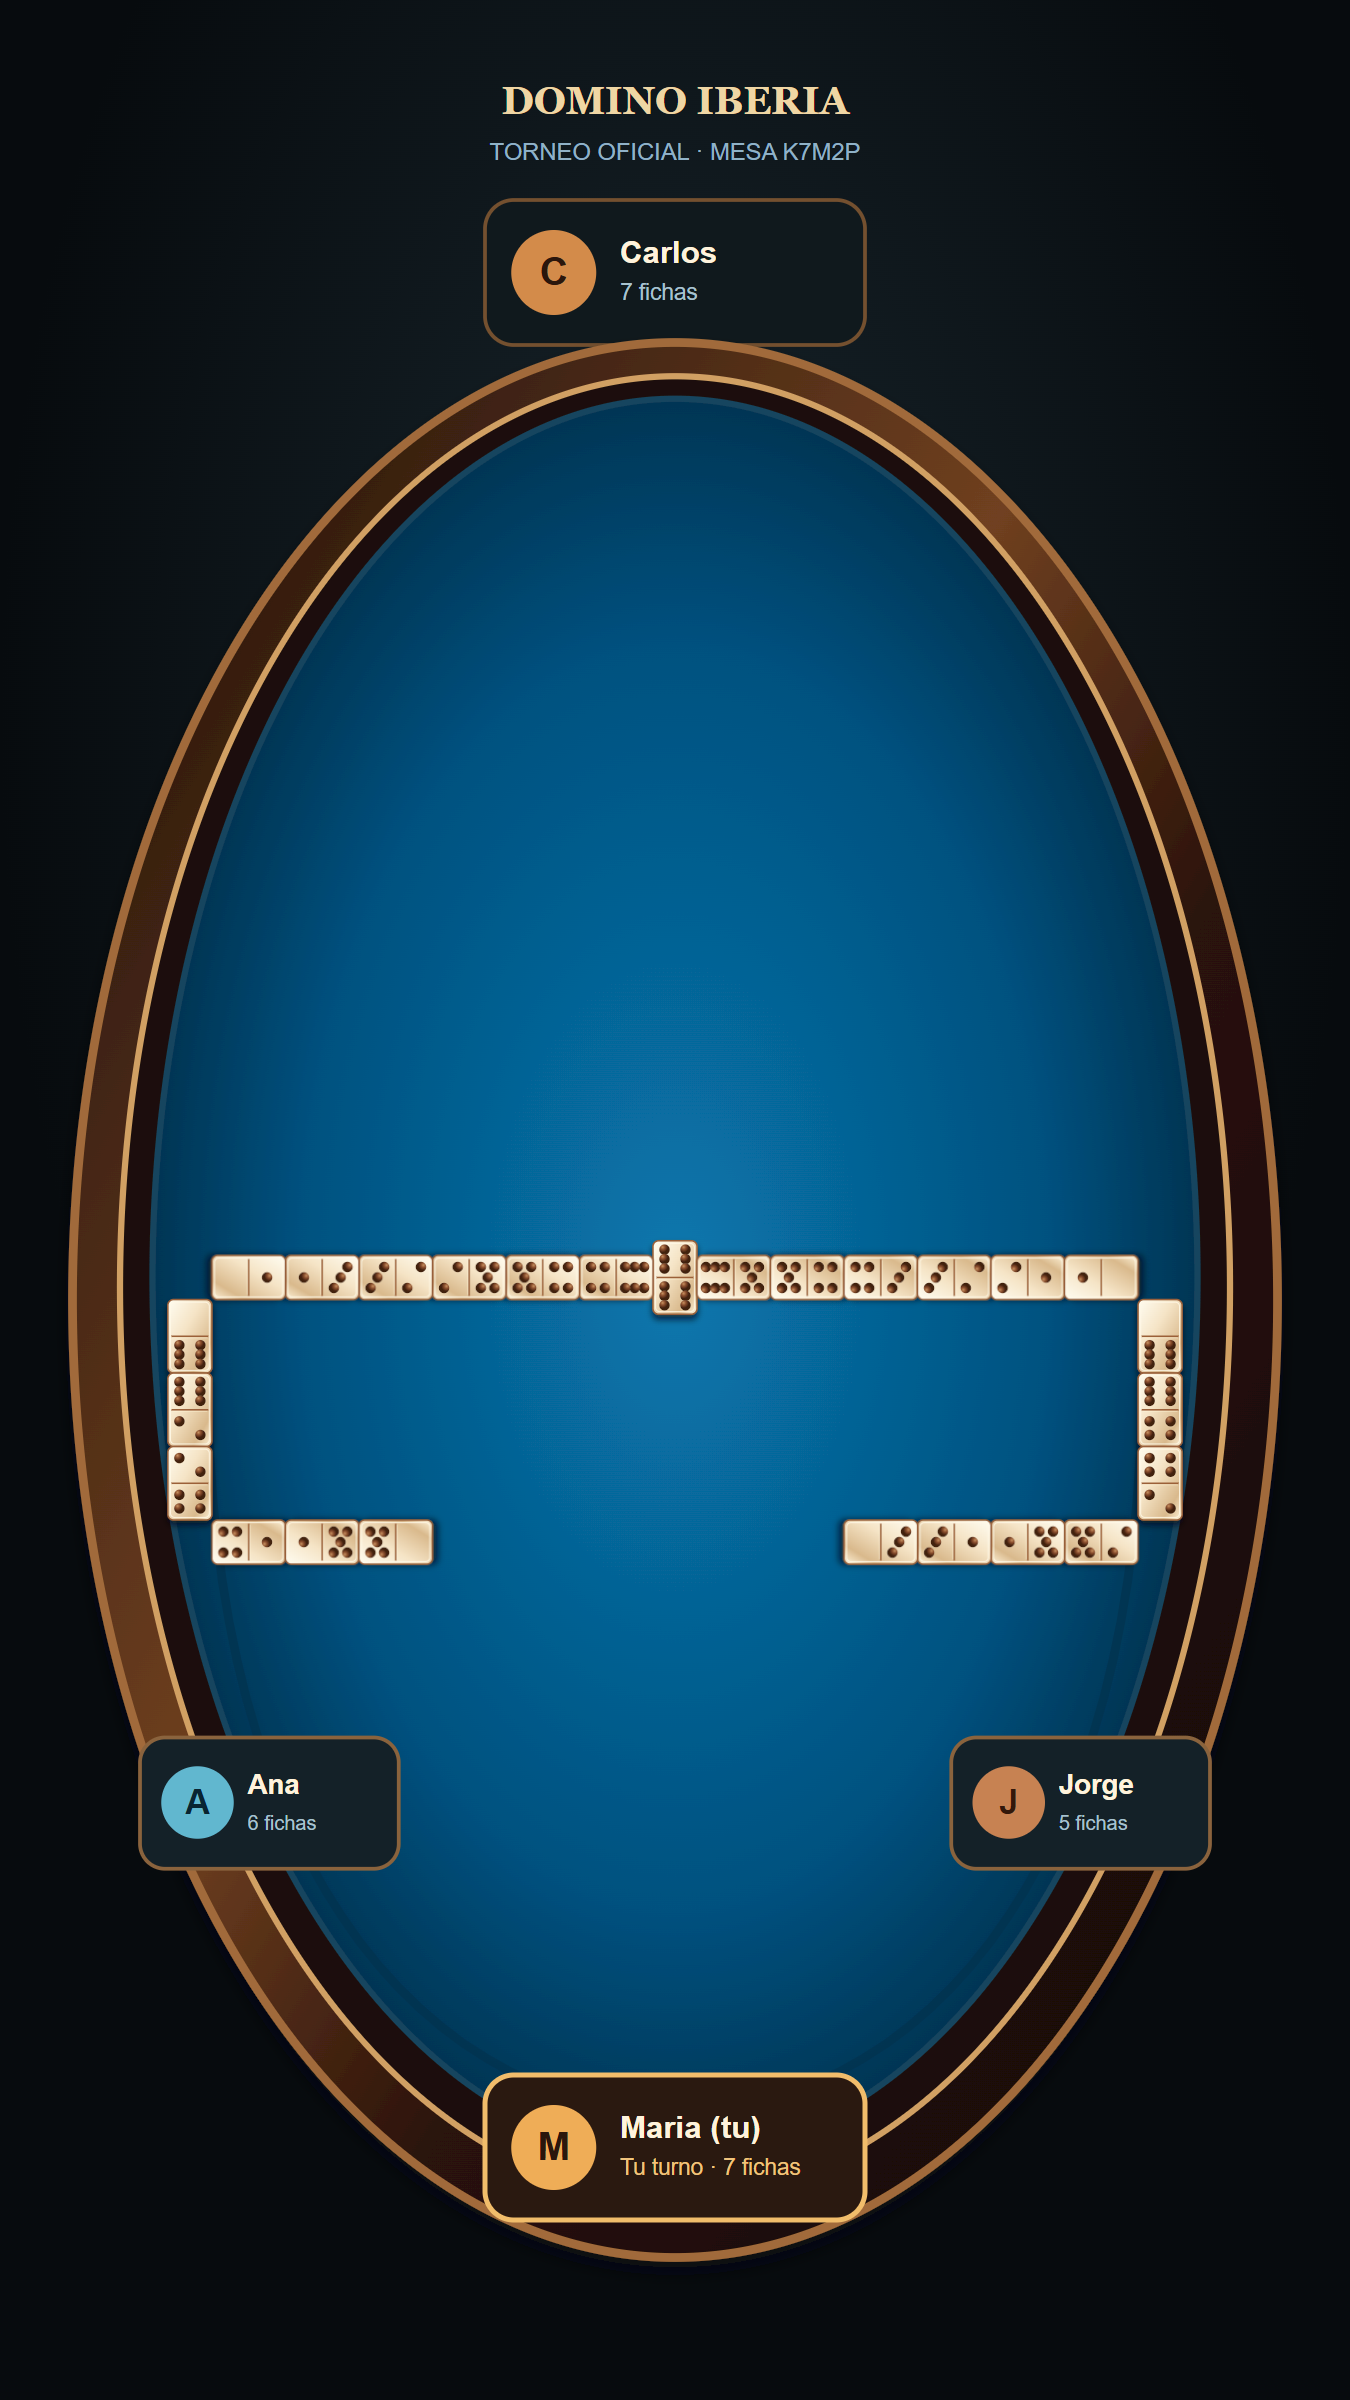
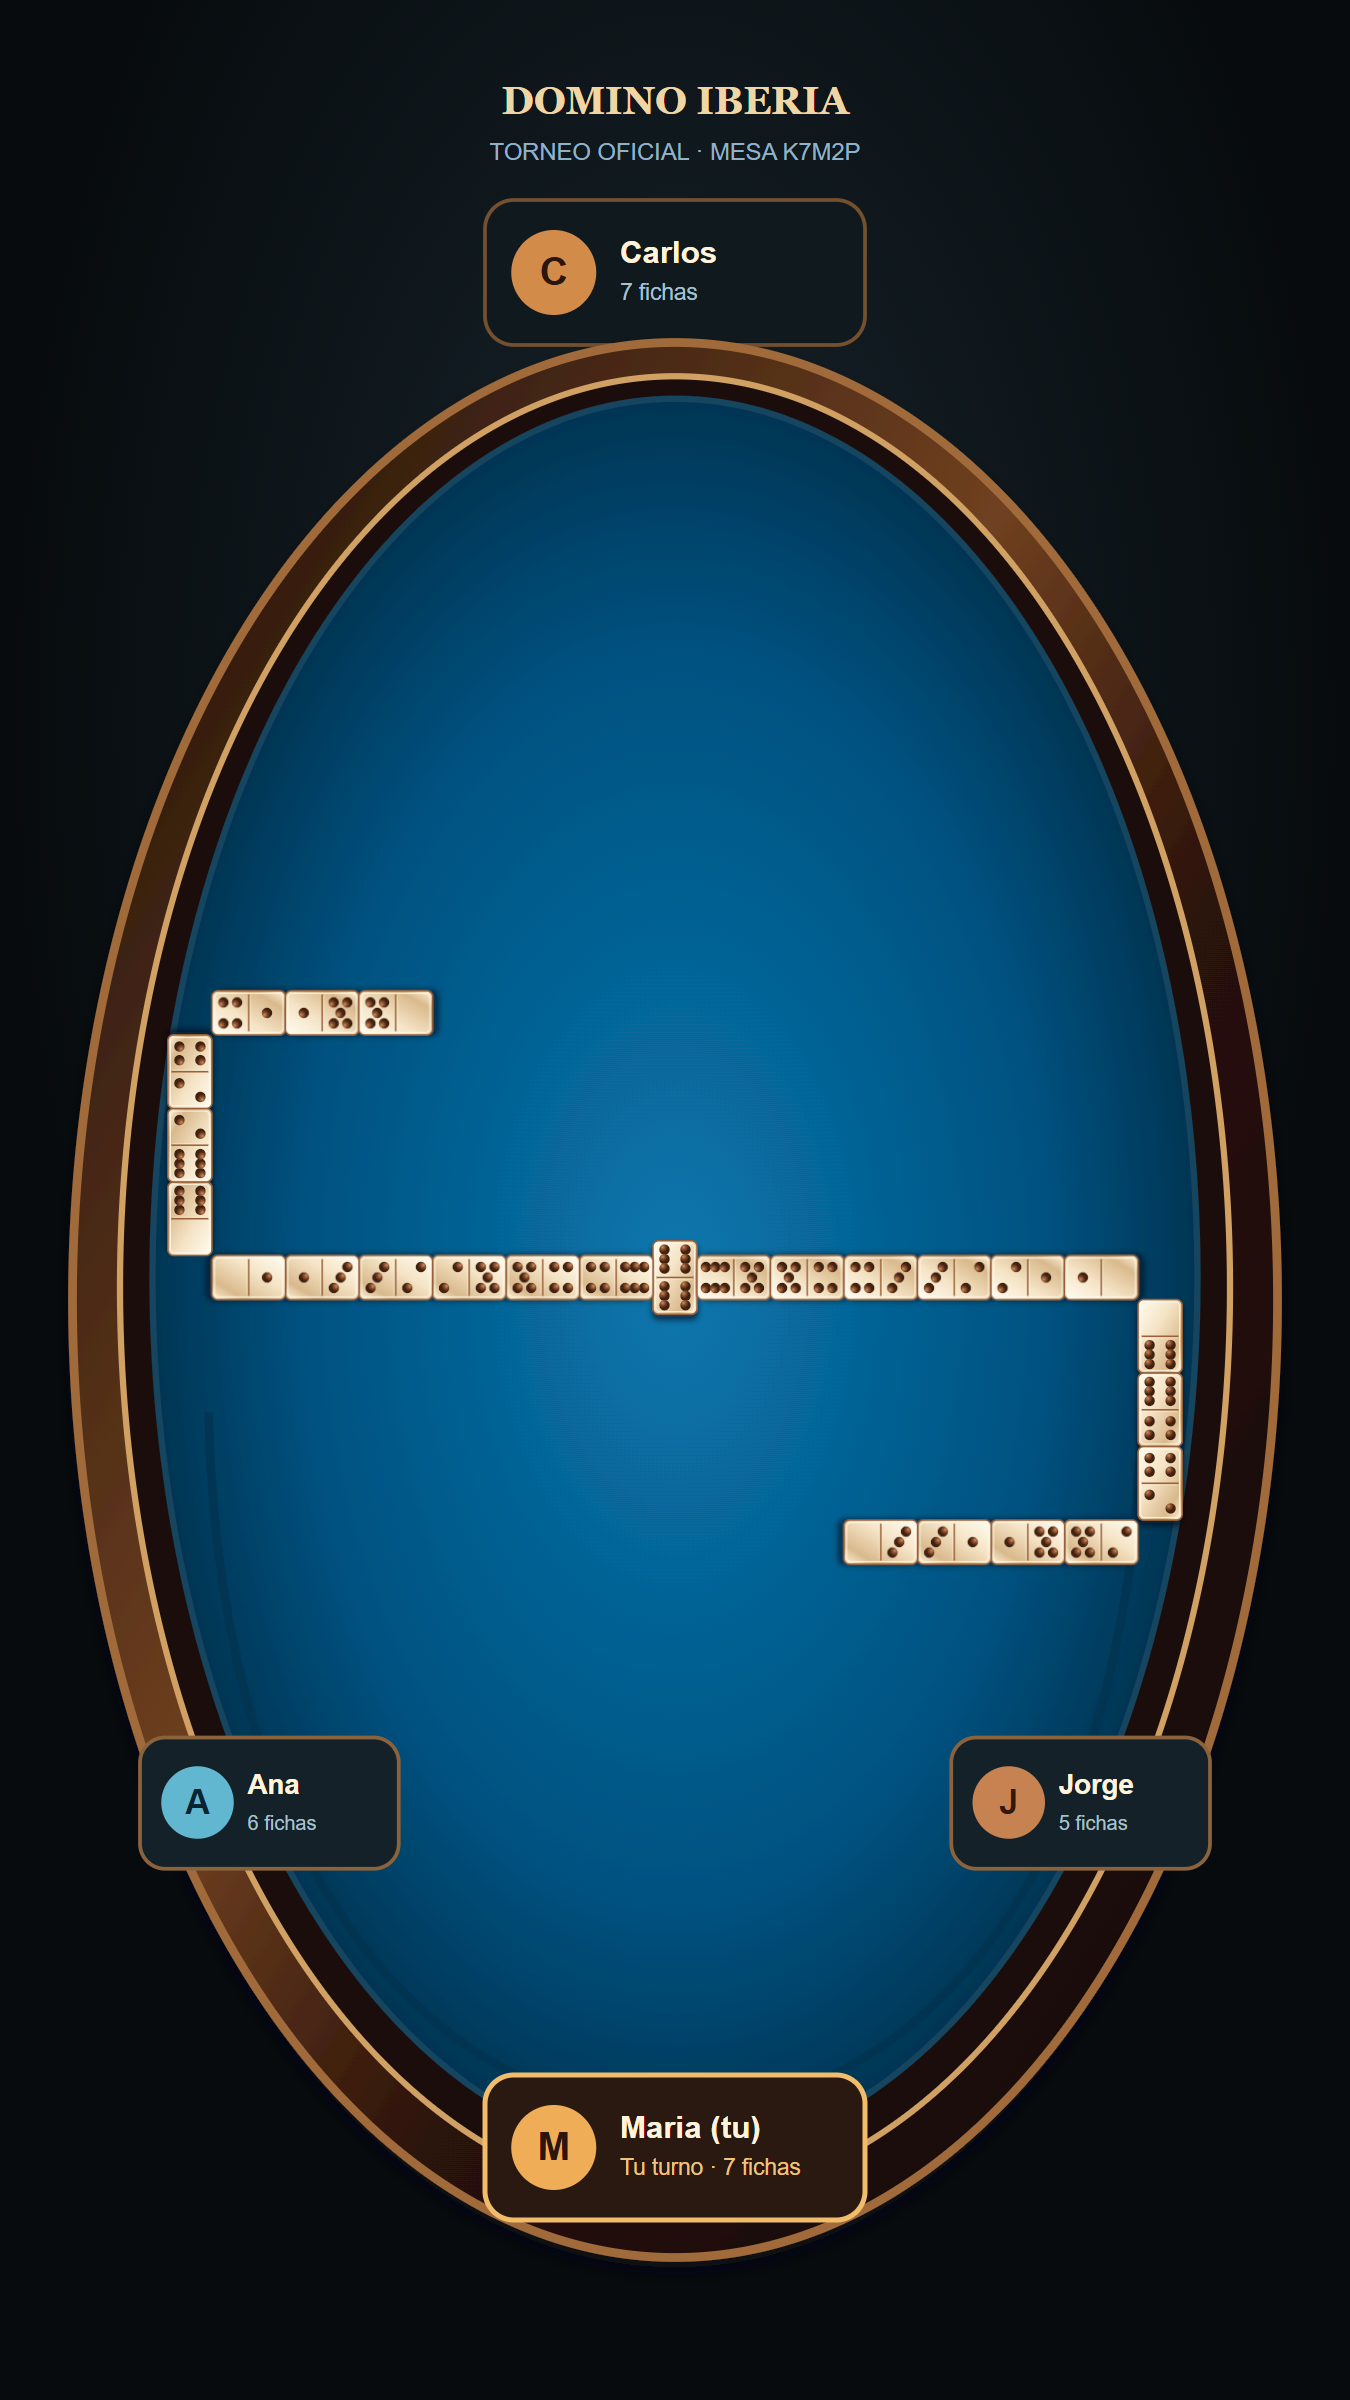
Separa giros opuestos de domino

Changed region(s): [[0.1244, 0.4062, 0.3422, 0.6562]]

diff --git a/frontend/src/components/Domino.css b/frontend/src/components/Domino.css
@@ -6,8 +6,8 @@
 @media (max-width: 720px) { .domino-cadena .domino-ficha.compacta { width: 16px; min-width: 16px; height: 26px; padding: 1px; }.domino-cadena .mesa-tramo.uno { top: 95px; left: calc(50% - 104px + var(--pos) * 26px); }.domino-cadena .mesa-tramo.giro-derecha { top: calc(111px + var(--pos) * 26px); right: calc(50% - 107px); }.domino-cadena .mesa-tramo.dos { top: 255px; right: calc(50% - 104px + var(--pos) * 26px); }.domino-cadena .mesa-tramo.giro-izquierda { top: calc(271px + var(--pos) * 26px); left: calc(50% - 120px); } }
 .domino-cadena { display: grid; place-items: center; overflow: hidden; padding: 72px 20px; }.domino-linea { display: flex; align-items: center; justify-content: center; transform: scale(var(--escala)); transform-origin: center; }.domino-linea .domino-ficha.compacta { position: relative; flex: 0 0 36px; width: 22px; min-width: 22px; height: 36px; margin: 0; padding: 2px; transform: rotate(-90deg); }.domino-linea .domino-ficha.compacta.doble { transform: rotate(0deg); }.domino-linea .domino-ficha.compacta .domino-cara i { width: 3px; height: 3px; }
 @media (max-width: 720px) { .domino-cadena { padding: 58px 10px; }.domino-linea { transform: scale(var(--escala-movil)); }.domino-linea .domino-ficha.compacta { flex-basis: 28px; width: 18px; min-width: 18px; height: 28px; padding: 1px; }.domino-linea .domino-ficha.compacta .domino-cara i { width: 2px; height: 2px; } }
-.domino-cadena .salida, .domino-rama .domino-ficha.compacta { position: absolute; width: 22px; min-width: 22px; height: 36px; margin: 0; padding: 2px; }.domino-cadena .salida { top: calc(50% - 18px); left: calc(50% - 11px); transform: none; }.domino-rama { position: absolute; inset: 0; }.domino-rama .tramo { top: calc(50% - 18px); }.domino-rama.derecha .tramo { left: calc(50% + 18px + var(--pos) * 36px); transform: rotate(-90deg); }.domino-rama.izquierda .tramo { right: calc(50% + 18px + var(--pos) * 36px); transform: rotate(90deg); }.domino-rama .bajada { top: calc(50% + 18px + var(--pos) * 36px); transform: rotate(0deg); }.domino-rama.derecha .bajada { left: calc(50% + 234px); }.domino-rama.izquierda .bajada { right: calc(50% + 234px); }.domino-rama .regreso { top: calc(50% + 180px); }.domino-rama.derecha .regreso { left: calc(50% + 198px - var(--pos) * 36px); transform: rotate(90deg); }.domino-rama.izquierda .regreso { right: calc(50% + 198px - var(--pos) * 36px); transform: rotate(-90deg); }.domino-rama .tramo.doble, .domino-rama .regreso.doble { transform: rotate(0deg); }.domino-rama .bajada.doble { transform: rotate(90deg); }.domino-linea-legada { transform: scale(.5); }
-@media (max-width: 720px) { .domino-cadena .salida, .domino-rama .domino-ficha.compacta { width: 16px; min-width: 16px; height: 26px; padding: 1px; }.domino-cadena .salida { top: calc(50% - 13px); left: calc(50% - 8px); }.domino-rama .tramo { top: calc(50% - 13px); }.domino-rama.derecha .tramo { left: calc(50% + 13px + var(--pos) * 26px); }.domino-rama.izquierda .tramo { right: calc(50% + 13px + var(--pos) * 26px); }.domino-rama .bajada { top: calc(50% + 13px + var(--pos) * 26px); }.domino-rama.derecha .bajada { left: calc(50% + 169px); }.domino-rama.izquierda .bajada { right: calc(50% + 169px); }.domino-rama .regreso { top: calc(50% + 130px); }.domino-rama.derecha .regreso { left: calc(50% + 143px - var(--pos) * 26px); }.domino-rama.izquierda .regreso { right: calc(50% + 143px - var(--pos) * 26px); } }
+.domino-cadena .salida, .domino-rama .domino-ficha.compacta { position: absolute; width: 22px; min-width: 22px; height: 36px; margin: 0; padding: 2px; }.domino-cadena .salida { top: calc(50% - 18px); left: calc(50% - 11px); transform: none; }.domino-rama { position: absolute; inset: 0; }.domino-rama .tramo { top: calc(50% - 18px); }.domino-rama.derecha .tramo { left: calc(50% + 18px + var(--pos) * 36px); transform: rotate(-90deg); }.domino-rama.izquierda .tramo { right: calc(50% + 18px + var(--pos) * 36px); transform: rotate(90deg); }.domino-rama .bajada { top: calc(50% + 18px + var(--pos) * 36px); transform: rotate(0deg); }.domino-rama.derecha .bajada { left: calc(50% + 234px); }.domino-rama.izquierda .bajada { top: calc(50% - 54px - var(--pos) * 36px); right: calc(50% + 234px); transform: rotate(180deg); }.domino-rama .regreso { top: calc(50% + 180px); }.domino-rama.derecha .regreso { left: calc(50% + 198px - var(--pos) * 36px); transform: rotate(90deg); }.domino-rama.izquierda .regreso { top: calc(50% - 198px); right: calc(50% + 198px - var(--pos) * 36px); transform: rotate(-90deg); }.domino-rama .tramo.doble, .domino-rama .regreso.doble { transform: rotate(0deg); }.domino-rama .bajada.doble { transform: rotate(90deg); }.domino-rama.izquierda .bajada.doble { transform: rotate(-90deg); }.domino-linea-legada { transform: scale(.5); }
+@media (max-width: 720px) { .domino-cadena .salida, .domino-rama .domino-ficha.compacta { width: 16px; min-width: 16px; height: 26px; padding: 1px; }.domino-cadena .salida { top: calc(50% - 13px); left: calc(50% - 8px); }.domino-rama .tramo { top: calc(50% - 13px); }.domino-rama.derecha .tramo { left: calc(50% + 13px + var(--pos) * 26px); }.domino-rama.izquierda .tramo { right: calc(50% + 13px + var(--pos) * 26px); }.domino-rama .bajada { top: calc(50% + 13px + var(--pos) * 26px); }.domino-rama.derecha .bajada { left: calc(50% + 169px); }.domino-rama.izquierda .bajada { top: calc(50% - 39px - var(--pos) * 26px); right: calc(50% + 169px); }.domino-rama .regreso { top: calc(50% + 130px); }.domino-rama.derecha .regreso { left: calc(50% + 143px - var(--pos) * 26px); }.domino-rama.izquierda .regreso { top: calc(50% - 143px); right: calc(50% + 143px - var(--pos) * 26px); } }
 .domino-tablero { min-height: 510px; padding: 0; overflow: hidden; border: 10px solid #4a210f; border-radius: 58px; background: #281209; box-shadow: inset 0 0 0 2px #a96532, 0 14px 28px rgba(0, 0, 0, .3); }.domino-mesa { min-height: 430px; border: 10px solid #1d0d07; border-radius: 48px 48px 28px 28px; background: radial-gradient(circle at 50% 45%, #075c91 0%, #03416b 55%, #022c4b 100%); box-shadow: inset 0 0 0 3px #7c3c1b, inset 0 0 40px rgba(0, 0, 0, .4); }.domino-cadena { position: absolute; inset: 0; }.domino-cadena > span { position: absolute; inset: 0; display: grid; place-items: center; color: #d8e6ec; }.domino-ficha { border-color: #d7a26c; background: linear-gradient(135deg, #fff8e9, #f0c995); box-shadow: 0 2px 4px rgba(0, 0, 0, .5), inset 0 1px 0 #fffdf5; }.domino-ficha > b { background: #bd8758; }.domino-cara i { background: radial-gradient(circle at 35% 30%, #a35d37 0 12%, #603018 35% 100%); }.domino-ficha.compacta { width: 34px; min-width: 34px; height: 54px; border-color: #d7a26c; }.domino-ficha.compacta .domino-cara i { width: 4px; height: 4px; }.domino-cadena .mesa-tramo.uno { top: 49%; left: calc(25% + var(--pos) * 5.4%); transform: rotate(90deg); }.domino-cadena .mesa-tramo.dos { top: 64%; right: calc(25% + var(--pos) * 5.4%); transform: rotate(90deg); }.domino-cadena .mesa-tramo.giro-derecha { right: 23%; top: calc(49% + var(--pos) * 8%); }.domino-cadena .mesa-tramo.giro-izquierda { left: 23%; bottom: calc(10% + var(--pos) * 8%); }.domino-asiento { position: absolute; z-index: 2; display: flex; align-items: center; gap: 8px; min-width: 148px; padding: 7px 10px; border: 2px solid #8e5734; border-radius: 13px; background: linear-gradient(145deg, #44200f, #1d0c06); color: #fff2dd; box-shadow: 0 5px 12px rgba(0, 0, 0, .45); }.domino-asiento.arriba { top: 15px; left: 50%; transform: translateX(-50%); }.domino-asiento.abajo { bottom: 15px; left: 50%; transform: translateX(-50%); }.domino-asiento.izquierda { left: 14px; top: 50%; transform: translateY(-50%); }.domino-asiento.derecha { right: 14px; top: 50%; transform: translateY(-50%); }.domino-asiento.soy-yo { border-color: #f2b868; box-shadow: 0 0 0 2px rgba(242, 184, 104, .2), 0 5px 12px rgba(0, 0, 0, .45); }.domino-asiento.turno-activo { border-color: #76d4ff; }.domino-asiento strong { display: block; font-size: 14px; }.domino-asiento span { display: block; margin-top: 2px; color: #ecc49e; font-size: 12px; }.domino-avatar { display: grid; width: 30px; height: 30px; flex: 0 0 30px; place-items: center; border-radius: 50%; background: linear-gradient(135deg, #f2c16d, #a94e2b); color: #211008; font-weight: 900; }.domino-controles { padding: 14px; background: #341507; }
 @media (max-width: 720px) { .domino-tablero { min-height: 410px; border-width: 7px; border-radius: 34px; }.domino-mesa { min-height: 340px; border-width: 6px; border-radius: 28px; }.domino-asiento { min-width: 104px; padding: 5px 7px; gap: 5px; }.domino-asiento strong { font-size: 11px; }.domino-asiento span { font-size: 10px; }.domino-avatar { width: 23px; height: 23px; flex-basis: 23px; font-size: 12px; }.domino-cadena .mesa-tramo.uno { left: calc(18% + var(--pos) * 8%); }.domino-cadena .mesa-tramo.dos { right: calc(18% + var(--pos) * 8%); }.domino-cadena .mesa-tramo.giro-derecha { right: 13%; }.domino-cadena .mesa-tramo.giro-izquierda { left: 13%; } }
 .domino-ficha { border: 2px solid #9a613a; border-radius: 9px; background: linear-gradient(135deg, #fffdf2 0%, #f5e4c6 40%, #d9b98c 78%, #fff5dc 100%); box-shadow: 0 5px 7px rgba(0, 0, 0, .5), inset 0 1px 0 #fffdf3, inset 0 0 0 2px rgba(255, 250, 232, .75); }.domino-ficha > b { height: 2px; background: linear-gradient(#8b5230, #f7e5c7); }.domino-cara i { width: 8px; height: 8px; background: radial-gradient(circle at 32% 26%, #c69060 0 12%, #8b4f2e 42%, #422010 100%); box-shadow: 0 1px 1px rgba(255, 233, 196, .7), inset 0 1px 1px rgba(46, 19, 8, .65); }.domino-ficha.compacta { width: 36px; min-width: 36px; height: 58px; border-radius: 6px; padding: 3px; }.domino-ficha.compacta .domino-cara i { width: 4px; height: 4px; }
